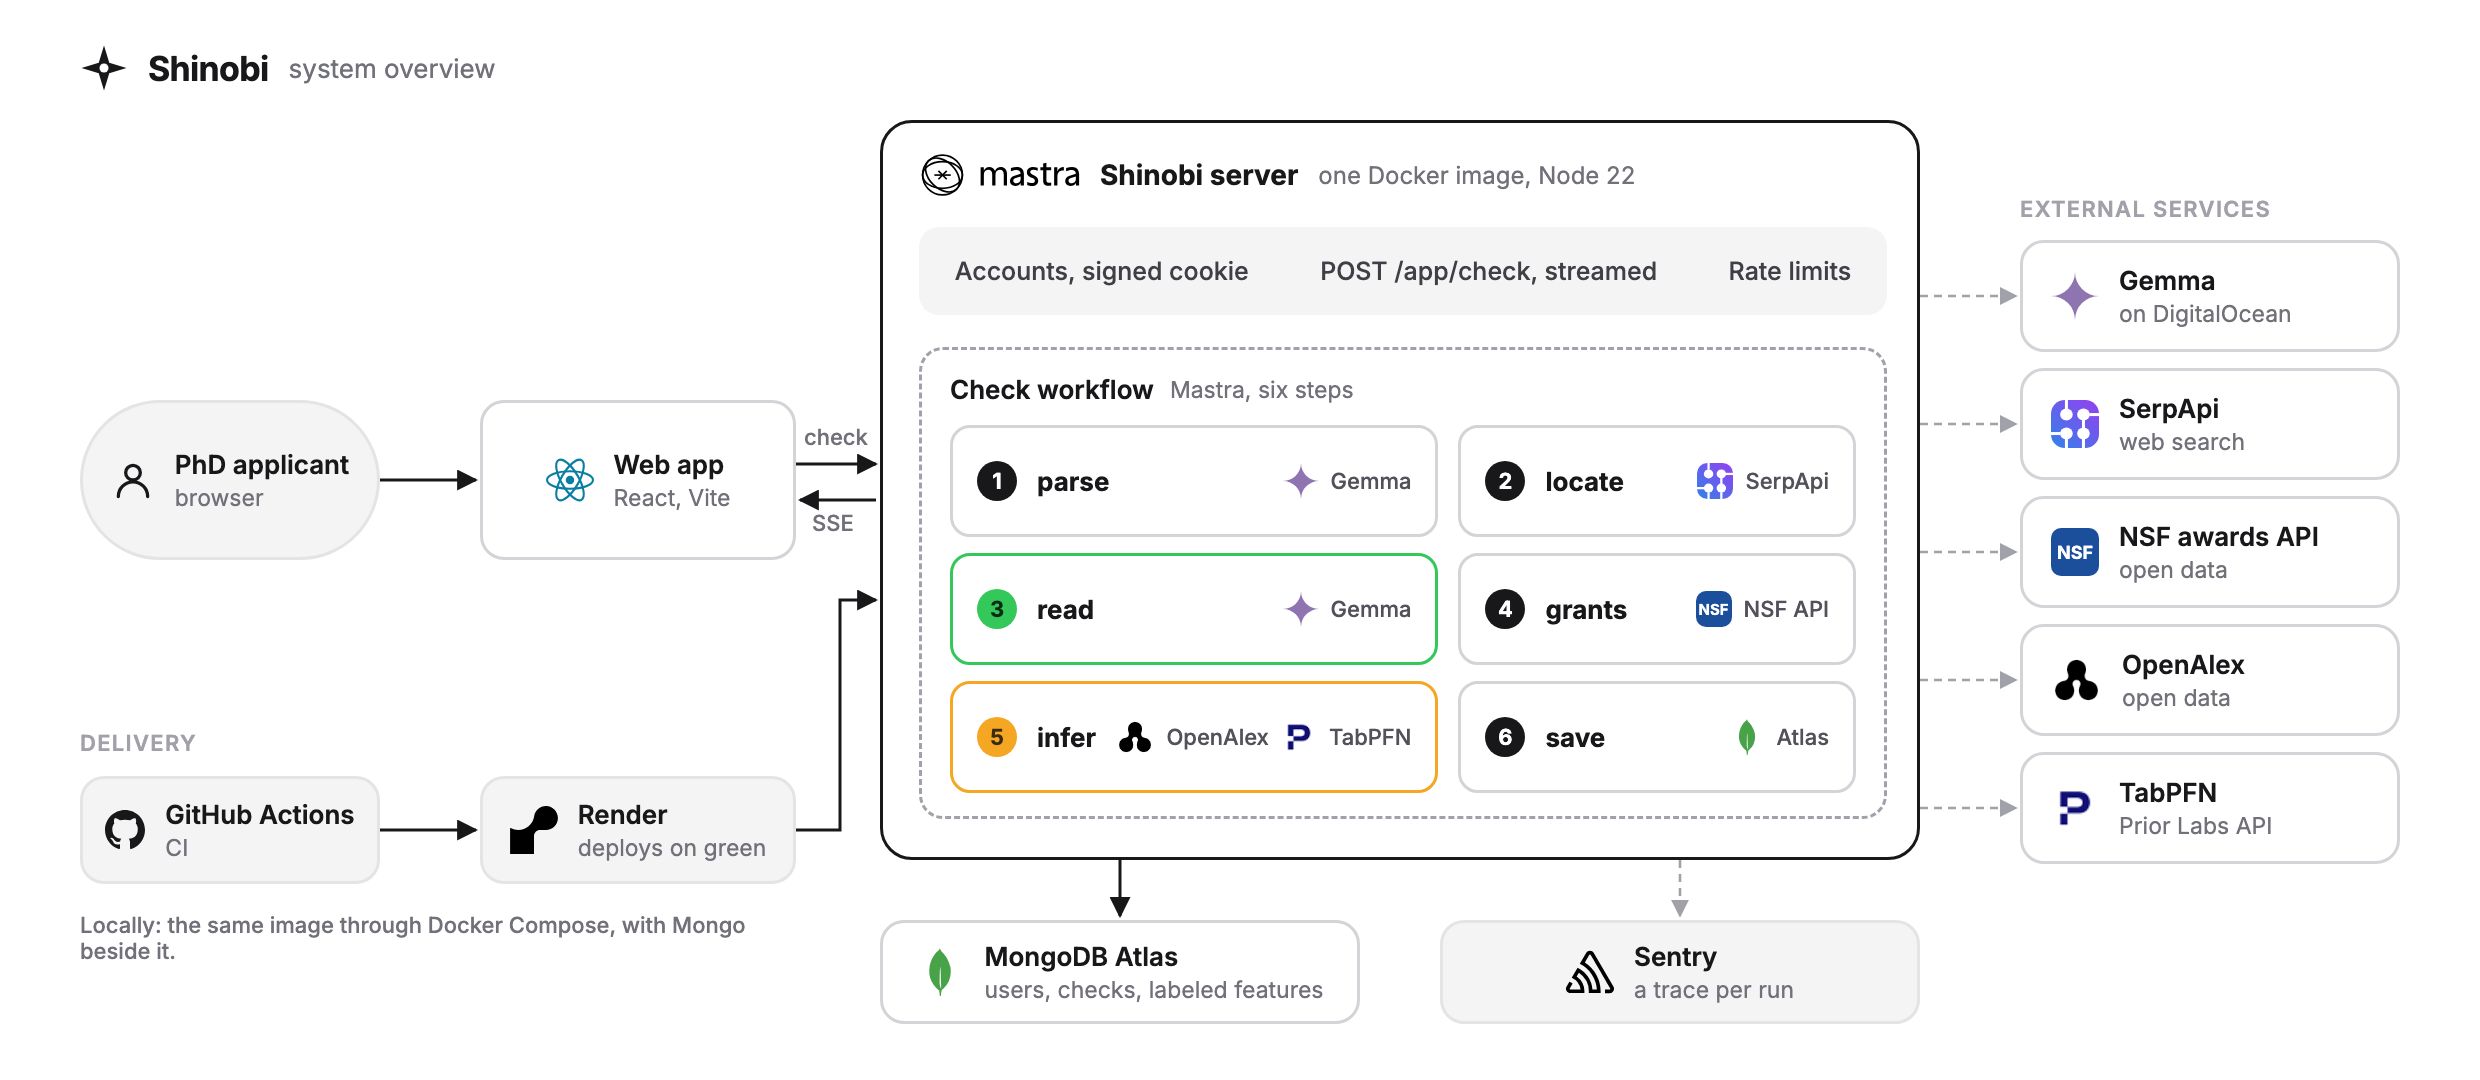
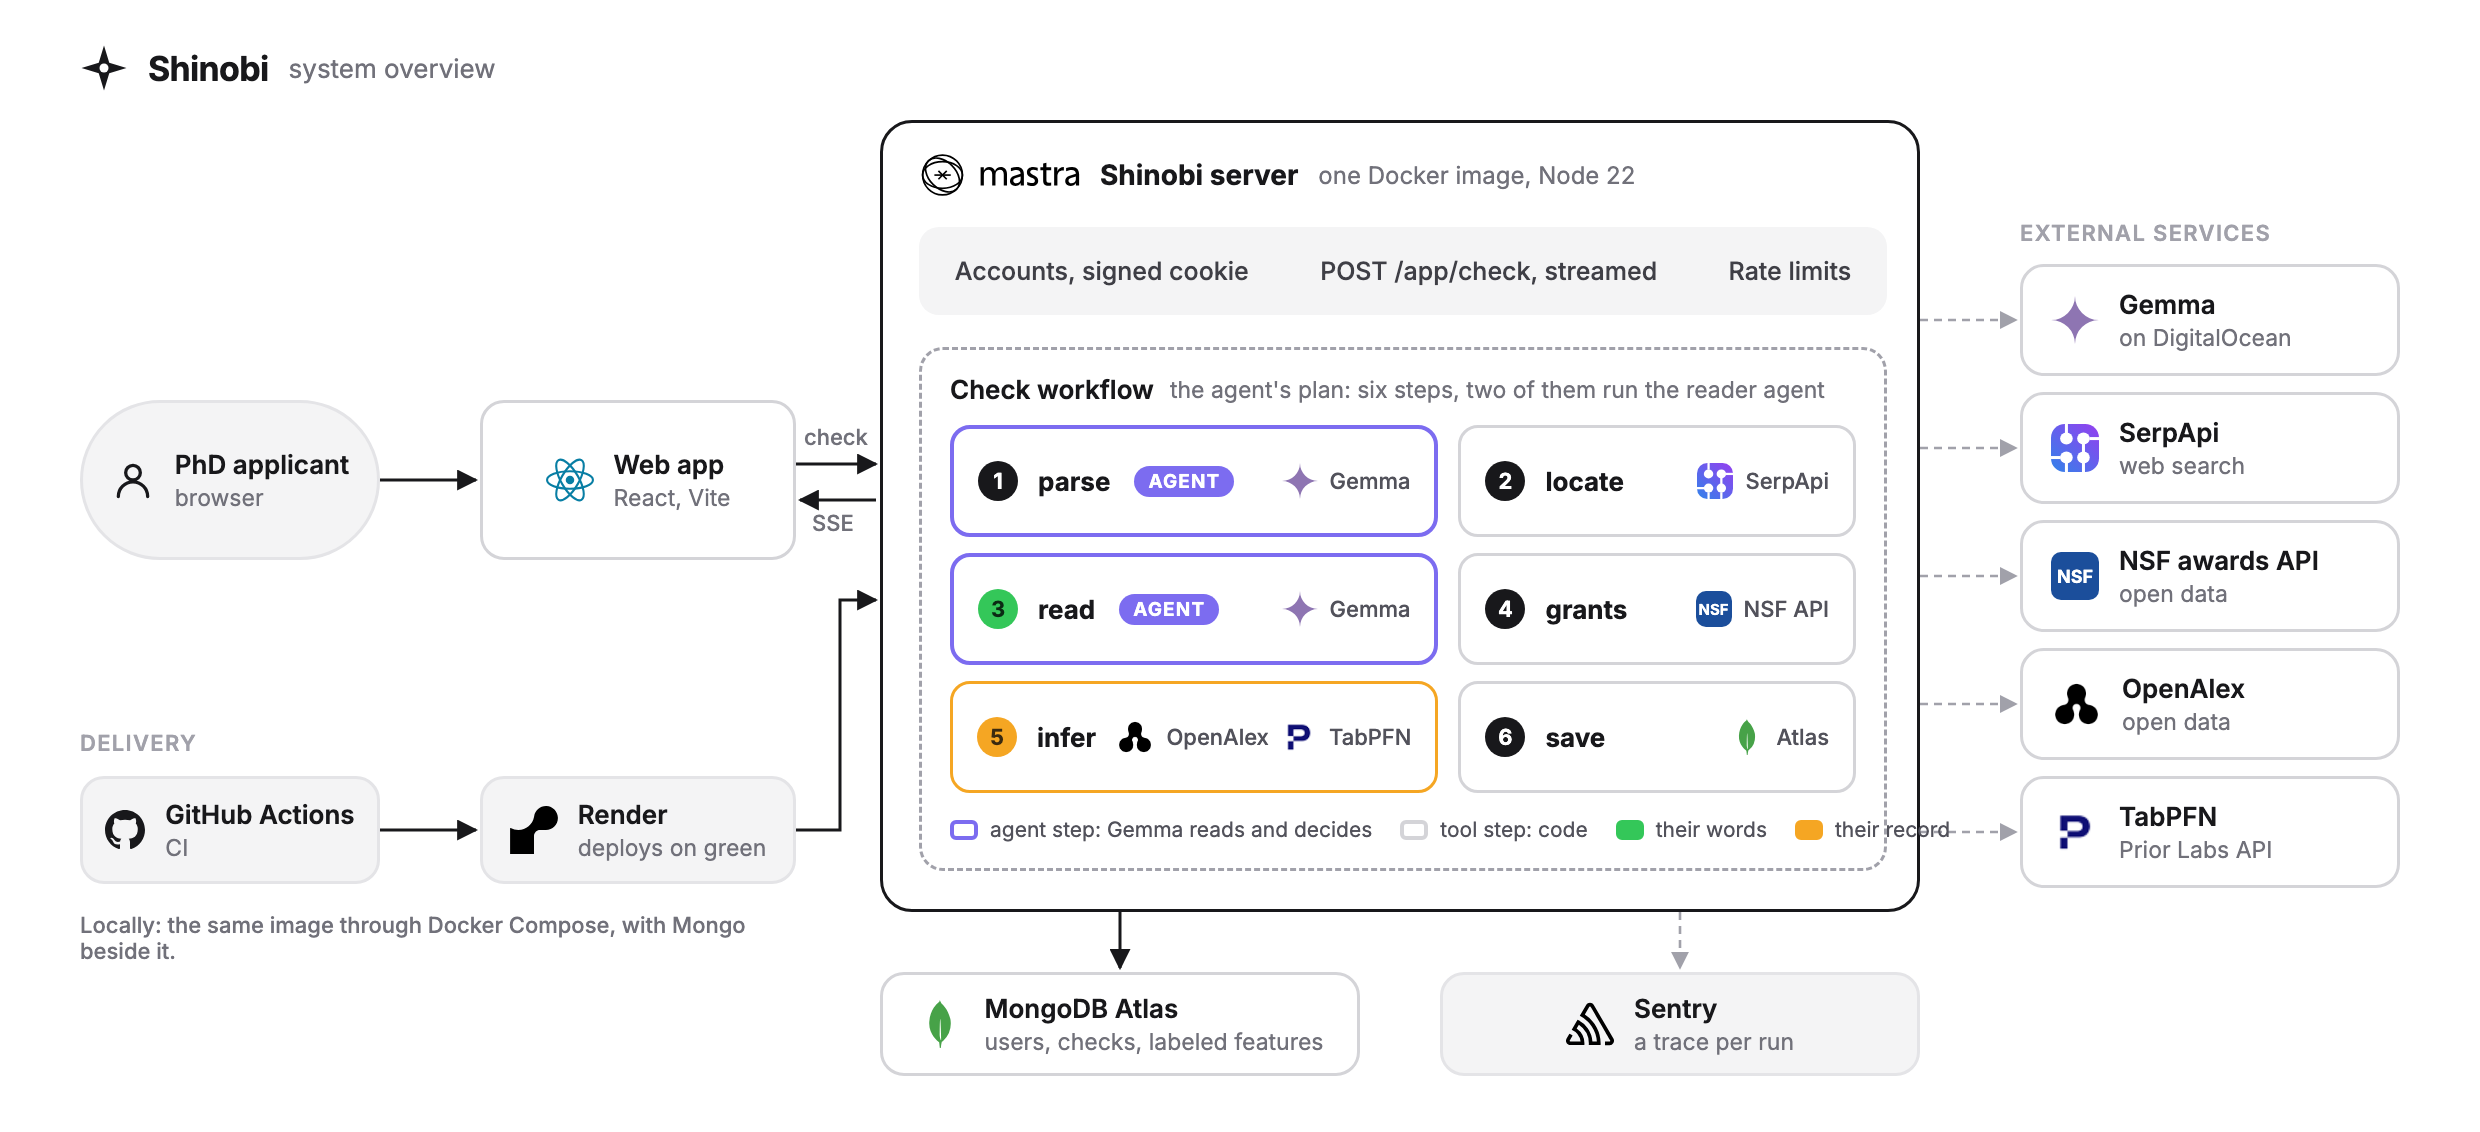
mark the agent steps in the diagram and README

diff --git a/docs/architecture.html b/docs/architecture.html
@@ -6,18 +6,18 @@
 <link rel="stylesheet" href="https://fonts.googleapis.com/css2?family=Inter:wght@400;500;600;700&display=swap">
 <style>
   * { box-sizing: border-box; margin: 0; padding: 0; }
-  body { width: 1240px; height: 540px; background: #fff; color: #18181b; font-family: Inter, -apple-system, 'Segoe UI', Helvetica, Arial, sans-serif; font-size: 13px; position: relative; }
+  body { width: 1240px; height: 566px; background: #fff; color: #18181b; font-family: Inter, -apple-system, 'Segoe UI', Helvetica, Arial, sans-serif; font-size: 13px; position: relative; }
   .box { position: absolute; background: #fff; border: 1.5px solid #d4d4d8; border-radius: 12px; display: flex; align-items: center; justify-content: center; gap: 10px; font-weight: 600; }
   .box small { font-weight: 400; color: #71717a; font-size: 11.5px; display: block; margin-top: 2px; }
   .box .t { text-align: left; }
   .soft { background: #f4f4f5; border-color: #e4e4e7; }
   .logo { height: 24px; width: auto; flex: none; } .inv { filter: invert(1); }
-  .server { position: absolute; left: 440px; top: 60px; width: 520px; height: 370px; border: 1.5px solid #18181b; border-radius: 16px; background: #fff; }
+  .server { position: absolute; left: 440px; top: 60px; width: 520px; height: 396px; border: 1.5px solid #18181b; border-radius: 16px; background: #fff; }
   .server .head { position: absolute; left: 18px; top: 14px; display: flex; align-items: center; gap: 10px; font-weight: 700; font-size: 14px; }
   .server .head small { font-weight: 400; color: #71717a; font-size: 12px; }
   .api { position: absolute; left: 18px; top: 52px; width: 484px; height: 44px; border-radius: 10px; background: #f4f4f5; display: flex; align-items: center; justify-content: space-around; font-weight: 500; font-size: 12.5px; color: #3f3f46; }
-  .wf { position: absolute; left: 18px; top: 112px; width: 484px; height: 236px; border: 1.5px dashed #a1a1aa; border-radius: 12px; padding: 12px 14px; }
-  .wf .wt { font-weight: 600; font-size: 13px; display: flex; align-items: center; gap: 8px; margin-bottom: 10px; }
+  .wf { position: absolute; left: 18px; top: 112px; width: 484px; height: 262px; border: 1.5px dashed #a1a1aa; border-radius: 12px; padding: 12px 14px; }
+  .wf .wt { font-weight: 600; font-size: 13px; display: flex; align-items: center; gap: 8px; margin-bottom: 10px; white-space: nowrap; }
   .wf .wt small { color: #71717a; font-weight: 400; font-size: 11.5px; }
   .tiles { display: grid; grid-template-columns: 1fr 1fr; gap: 8px 10px; }
   .tile { height: 56px; border: 1.5px solid #d4d4d8; border-radius: 10px; display: flex; align-items: center; gap: 10px; padding: 0 12px; background: #fff; }
@@ -27,14 +27,20 @@
   .tile .u img, .tile .u .badge { height: 18px; }
   .tile.g { border-color: #34c759; } .tile.g i { background: #34c759; color: #0b2a14; }
   .tile.y { border-color: #f5a623; } .tile.y i { background: #f5a623; color: #3a2a10; }
+  .tile.a { border-color: #7c6cf0; border-width: 2px; }
+  .chip { font-size: 9.5px; font-weight: 700; letter-spacing: .06em; text-transform: uppercase; color: #fff; background: #7c6cf0; border-radius: 999px; padding: 2px 7px; margin-left: 2px; }
+  .legend { display: flex; gap: 14px; align-items: center; margin-top: 12px; font-size: 10.5px; color: #52525b; white-space: nowrap; }
+  .legend span { display: flex; align-items: center; gap: 6px; }
+  .legend em { width: 14px; height: 10px; border-radius: 3px; border: 2px solid #d4d4d8; font-style: normal; display: inline-block; }
+  .legend em.a { border-color: #7c6cf0; } .legend em.g { border-color: #34c759; background: #34c759; } .legend em.y { border-color: #f5a623; background: #f5a623; }
   .badge { width: 18px; height: 18px; border-radius: 5px; background: #1b4e9b; color: #fff; font-size: 7.5px; font-weight: 800; display: grid; place-items: center; }
   .lbl { position: absolute; font-size: 11px; color: #71717a; font-weight: 500; }
   .group { position: absolute; font-size: 11px; color: #a1a1aa; font-weight: 600; letter-spacing: .06em; text-transform: uppercase; }
-  svg.wires { position: absolute; inset: 0; width: 1240px; height: 540px; pointer-events: none; }
+  svg.wires { position: absolute; inset: 0; width: 1240px; height: 566px; pointer-events: none; }
 </style>
 </head>
 <body>
-  <svg class="wires" viewBox="0 0 1240 540" aria-hidden="true">
+  <svg class="wires" viewBox="0 0 1240 566" aria-hidden="true">
     <defs>
       <marker id="k" viewBox="0 0 10 10" refX="9" refY="5" markerWidth="7" markerHeight="7" orient="auto-start-reverse"><path d="M0 0L10 5L0 10z" fill="#18181b"/></marker>
       <marker id="m" viewBox="0 0 10 10" refX="9" refY="5" markerWidth="7" markerHeight="7" orient="auto-start-reverse"><path d="M0 0L10 5L0 10z" fill="#a1a1aa"/></marker>
@@ -44,14 +50,14 @@
     <line x1="398" y1="232" x2="438" y2="232" stroke="#18181b" stroke-width="1.5" marker-end="url(#k)"/>
     <line x1="438" y1="250" x2="400" y2="250" stroke="#18181b" stroke-width="1.5" marker-end="url(#k)"/>
     <!-- workflow -> services (dashed) -->
-    <path d="M960 148 H1008" stroke="#a1a1aa" stroke-width="1.3" stroke-dasharray="4 3" marker-end="url(#m)"/>
-    <path d="M960 212 H1008" stroke="#a1a1aa" stroke-width="1.3" stroke-dasharray="4 3" marker-end="url(#m)"/>
-    <path d="M960 276 H1008" stroke="#a1a1aa" stroke-width="1.3" stroke-dasharray="4 3" marker-end="url(#m)"/>
-    <path d="M960 340 H1008" stroke="#a1a1aa" stroke-width="1.3" stroke-dasharray="4 3" marker-end="url(#m)"/>
-    <path d="M960 404 H1008" stroke="#a1a1aa" stroke-width="1.3" stroke-dasharray="4 3" marker-end="url(#m)"/>
+    <path d="M960 160 H1008" stroke="#a1a1aa" stroke-width="1.3" stroke-dasharray="4 3" marker-end="url(#m)"/>
+    <path d="M960 224 H1008" stroke="#a1a1aa" stroke-width="1.3" stroke-dasharray="4 3" marker-end="url(#m)"/>
+    <path d="M960 288 H1008" stroke="#a1a1aa" stroke-width="1.3" stroke-dasharray="4 3" marker-end="url(#m)"/>
+    <path d="M960 352 H1008" stroke="#a1a1aa" stroke-width="1.3" stroke-dasharray="4 3" marker-end="url(#m)"/>
+    <path d="M960 416 H1008" stroke="#a1a1aa" stroke-width="1.3" stroke-dasharray="4 3" marker-end="url(#m)"/>
     <!-- server -> atlas, sentry -->
-    <path d="M560 430 V458" stroke="#18181b" stroke-width="1.5" marker-end="url(#k)"/>
-    <path d="M840 430 V458" stroke="#a1a1aa" stroke-width="1.3" stroke-dasharray="4 3" marker-end="url(#m)"/>
+    <path d="M560 456 V484" stroke="#18181b" stroke-width="1.5" marker-end="url(#k)"/>
+    <path d="M840 456 V484" stroke="#a1a1aa" stroke-width="1.3" stroke-dasharray="4 3" marker-end="url(#m)"/>
     <!-- delivery -->
     <line x1="190" y1="415" x2="238" y2="415" stroke="#18181b" stroke-width="1.5" marker-end="url(#k)"/>
     <path d="M398 415 H420 V300 H438" fill="none" stroke="#18181b" stroke-width="1.5" marker-end="url(#k)"/>
@@ -80,29 +86,30 @@
     <div class="head"><img class="logo inv" src="../web/public/logos/mastra.svg" alt="Mastra"><span>Shinobi server</span><small>one Docker image, Node 22</small></div>
     <div class="api"><span>Accounts, signed cookie</span><span>POST /app/check, streamed</span><span>Rate limits</span></div>
     <div class="wf">
-      <div class="wt">Check workflow <small>Mastra, six steps</small></div>
+      <div class="wt">Check workflow <small>the agent's plan: six steps, two of them run the reader agent</small></div>
       <div class="tiles">
-        <div class="tile"><i>1</i><b>parse</b><span class="u"><img src="../web/public/logos/gemma.svg" alt="">Gemma</span></div>
+        <div class="tile a"><i>1</i><b>parse</b><span class="chip">agent</span><span class="u"><img src="../web/public/logos/gemma.svg" alt="">Gemma</span></div>
         <div class="tile"><i>2</i><b>locate</b><span class="u"><img src="../web/public/logos/serpapi.svg" alt="">SerpApi</span></div>
-        <div class="tile g"><i>3</i><b>read</b><span class="u"><img src="../web/public/logos/gemma.svg" alt="">Gemma</span></div>
+        <div class="tile a g"><i>3</i><b>read</b><span class="chip">agent</span><span class="u"><img src="../web/public/logos/gemma.svg" alt="">Gemma</span></div>
         <div class="tile"><i>4</i><b>grants</b><span class="u"><span class="badge">NSF</span>NSF API</span></div>
         <div class="tile y"><i>5</i><b>infer</b><span class="u"><img src="../web/public/logos/openalex.png" alt="">OpenAlex<img src="../web/public/logos/priorlabs.png" alt="">TabPFN</span></div>
         <div class="tile"><i>6</i><b>save</b><span class="u"><img src="../web/public/logos/mongodb.svg" alt="">Atlas</span></div>
       </div>
+      <div class="legend"><span><em class="a"></em>agent step: Gemma reads and decides</span><span><em></em>tool step: code</span><span><em class="g"></em>their words</span><span><em class="y"></em>their record</span></div>
     </div>
   </div>
 
   <!-- external services -->
-  <div class="group" style="left:1010px;top:98px">External services</div>
-  <div class="box" style="left:1010px;top:120px;width:190px;height:56px;justify-content:flex-start;padding-left:14px"><img class="logo" src="../web/public/logos/gemma.svg" alt=""><div class="t">Gemma<small>on DigitalOcean</small></div></div>
-  <div class="box" style="left:1010px;top:184px;width:190px;height:56px;justify-content:flex-start;padding-left:14px"><img class="logo" src="../web/public/logos/serpapi.svg" alt=""><div class="t">SerpApi<small>web search</small></div></div>
-  <div class="box" style="left:1010px;top:248px;width:190px;height:56px;justify-content:flex-start;padding-left:14px"><span class="badge" style="width:24px;height:24px;font-size:9px">NSF</span><div class="t">NSF awards API<small>open data</small></div></div>
-  <div class="box" style="left:1010px;top:312px;width:190px;height:56px;justify-content:flex-start;padding-left:14px"><img class="logo" src="../web/public/logos/openalex.png" alt=""><div class="t">OpenAlex<small>open data</small></div></div>
-  <div class="box" style="left:1010px;top:376px;width:190px;height:56px;justify-content:flex-start;padding-left:14px"><img class="logo" src="../web/public/logos/priorlabs.png" alt=""><div class="t">TabPFN<small>Prior Labs API</small></div></div>
+  <div class="group" style="left:1010px;top:110px">External services</div>
+  <div class="box" style="left:1010px;top:132px;width:190px;height:56px;justify-content:flex-start;padding-left:14px"><img class="logo" src="../web/public/logos/gemma.svg" alt=""><div class="t">Gemma<small>on DigitalOcean</small></div></div>
+  <div class="box" style="left:1010px;top:196px;width:190px;height:56px;justify-content:flex-start;padding-left:14px"><img class="logo" src="../web/public/logos/serpapi.svg" alt=""><div class="t">SerpApi<small>web search</small></div></div>
+  <div class="box" style="left:1010px;top:260px;width:190px;height:56px;justify-content:flex-start;padding-left:14px"><span class="badge" style="width:24px;height:24px;font-size:9px">NSF</span><div class="t">NSF awards API<small>open data</small></div></div>
+  <div class="box" style="left:1010px;top:324px;width:190px;height:56px;justify-content:flex-start;padding-left:14px"><img class="logo" src="../web/public/logos/openalex.png" alt=""><div class="t">OpenAlex<small>open data</small></div></div>
+  <div class="box" style="left:1010px;top:388px;width:190px;height:56px;justify-content:flex-start;padding-left:14px"><img class="logo" src="../web/public/logos/priorlabs.png" alt=""><div class="t">TabPFN<small>Prior Labs API</small></div></div>
 
   <!-- data and traces -->
-  <div class="box" style="left:440px;top:460px;width:240px;height:52px"><img class="logo" src="../web/public/logos/mongodb.svg" alt=""><div class="t">MongoDB Atlas<small>users, checks, labeled features</small></div></div>
-  <div class="box soft" style="left:720px;top:460px;width:240px;height:52px"><img class="logo inv" src="../web/public/logos/sentry.svg" alt=""><div class="t">Sentry<small>a trace per run</small></div></div>
+  <div class="box" style="left:440px;top:486px;width:240px;height:52px"><img class="logo" src="../web/public/logos/mongodb.svg" alt=""><div class="t">MongoDB Atlas<small>users, checks, labeled features</small></div></div>
+  <div class="box soft" style="left:720px;top:486px;width:240px;height:52px"><img class="logo inv" src="../web/public/logos/sentry.svg" alt=""><div class="t">Sentry<small>a trace per run</small></div></div>
 
   <!-- delivery -->
   <div class="group" style="left:40px;top:365px">Delivery</div>

diff --git a/README.md b/README.md
@@ -72,6 +72,21 @@ The check is a [Mastra](https://mastra.ai) workflow with six steps.
 The plan is fixed, which is deliberate: a student should get the same kind of answer every time, and a fixed plan is what makes the trace in the interface meaningful.
 The judgment lives inside the steps, in the model that reads the pages, in the rules about which links to follow, and in the refusals.
 
+### Where the agent is
+
+There is one agent, the **reader**, a Mastra `Agent` running Gemma through any OpenAI-compatible host.
+Two of the six steps hand it a task and act on what it returns:
+
+- In **parse** it reads whatever the student typed and decides which words are the person and which are the institution, including nicknames and short forms, and ignores titles and degrees.
+- In **read** it is given up to six pages of text and has to decide whether the professor states a recruiting status at all, which single sentence is the decisive one, which page it is on, and what date, if any, is printed next to it.
+  It must tell a real statement apart from headings, invitations to apply, conditionals, notes about postdocs, and notes about past cycles.
+  It answers in a fixed JSON shape, is retried on provider errors, and its answer is checked by code before it is trusted: a statement for a past cycle is overruled and reported as stale.
+
+The other four steps are tools, deterministic code with no model in the loop: search and page fetching with their scoring rules, the NSF lookup, the feature computation, the TabPFN call, and the sentence-by-sentence explanation.
+That split is on purpose.
+The model does the two things that need reading comprehension, and everything that can be checked, tested or reproduced is done without it.
+The workflow is the agent's plan: the same six steps every time, each one visible in the interface as it runs, each one able to refuse with a reason instead of guessing.
+
 ### The components
 
 **Query parser** (`tools/gemma.ts`, step 1).
